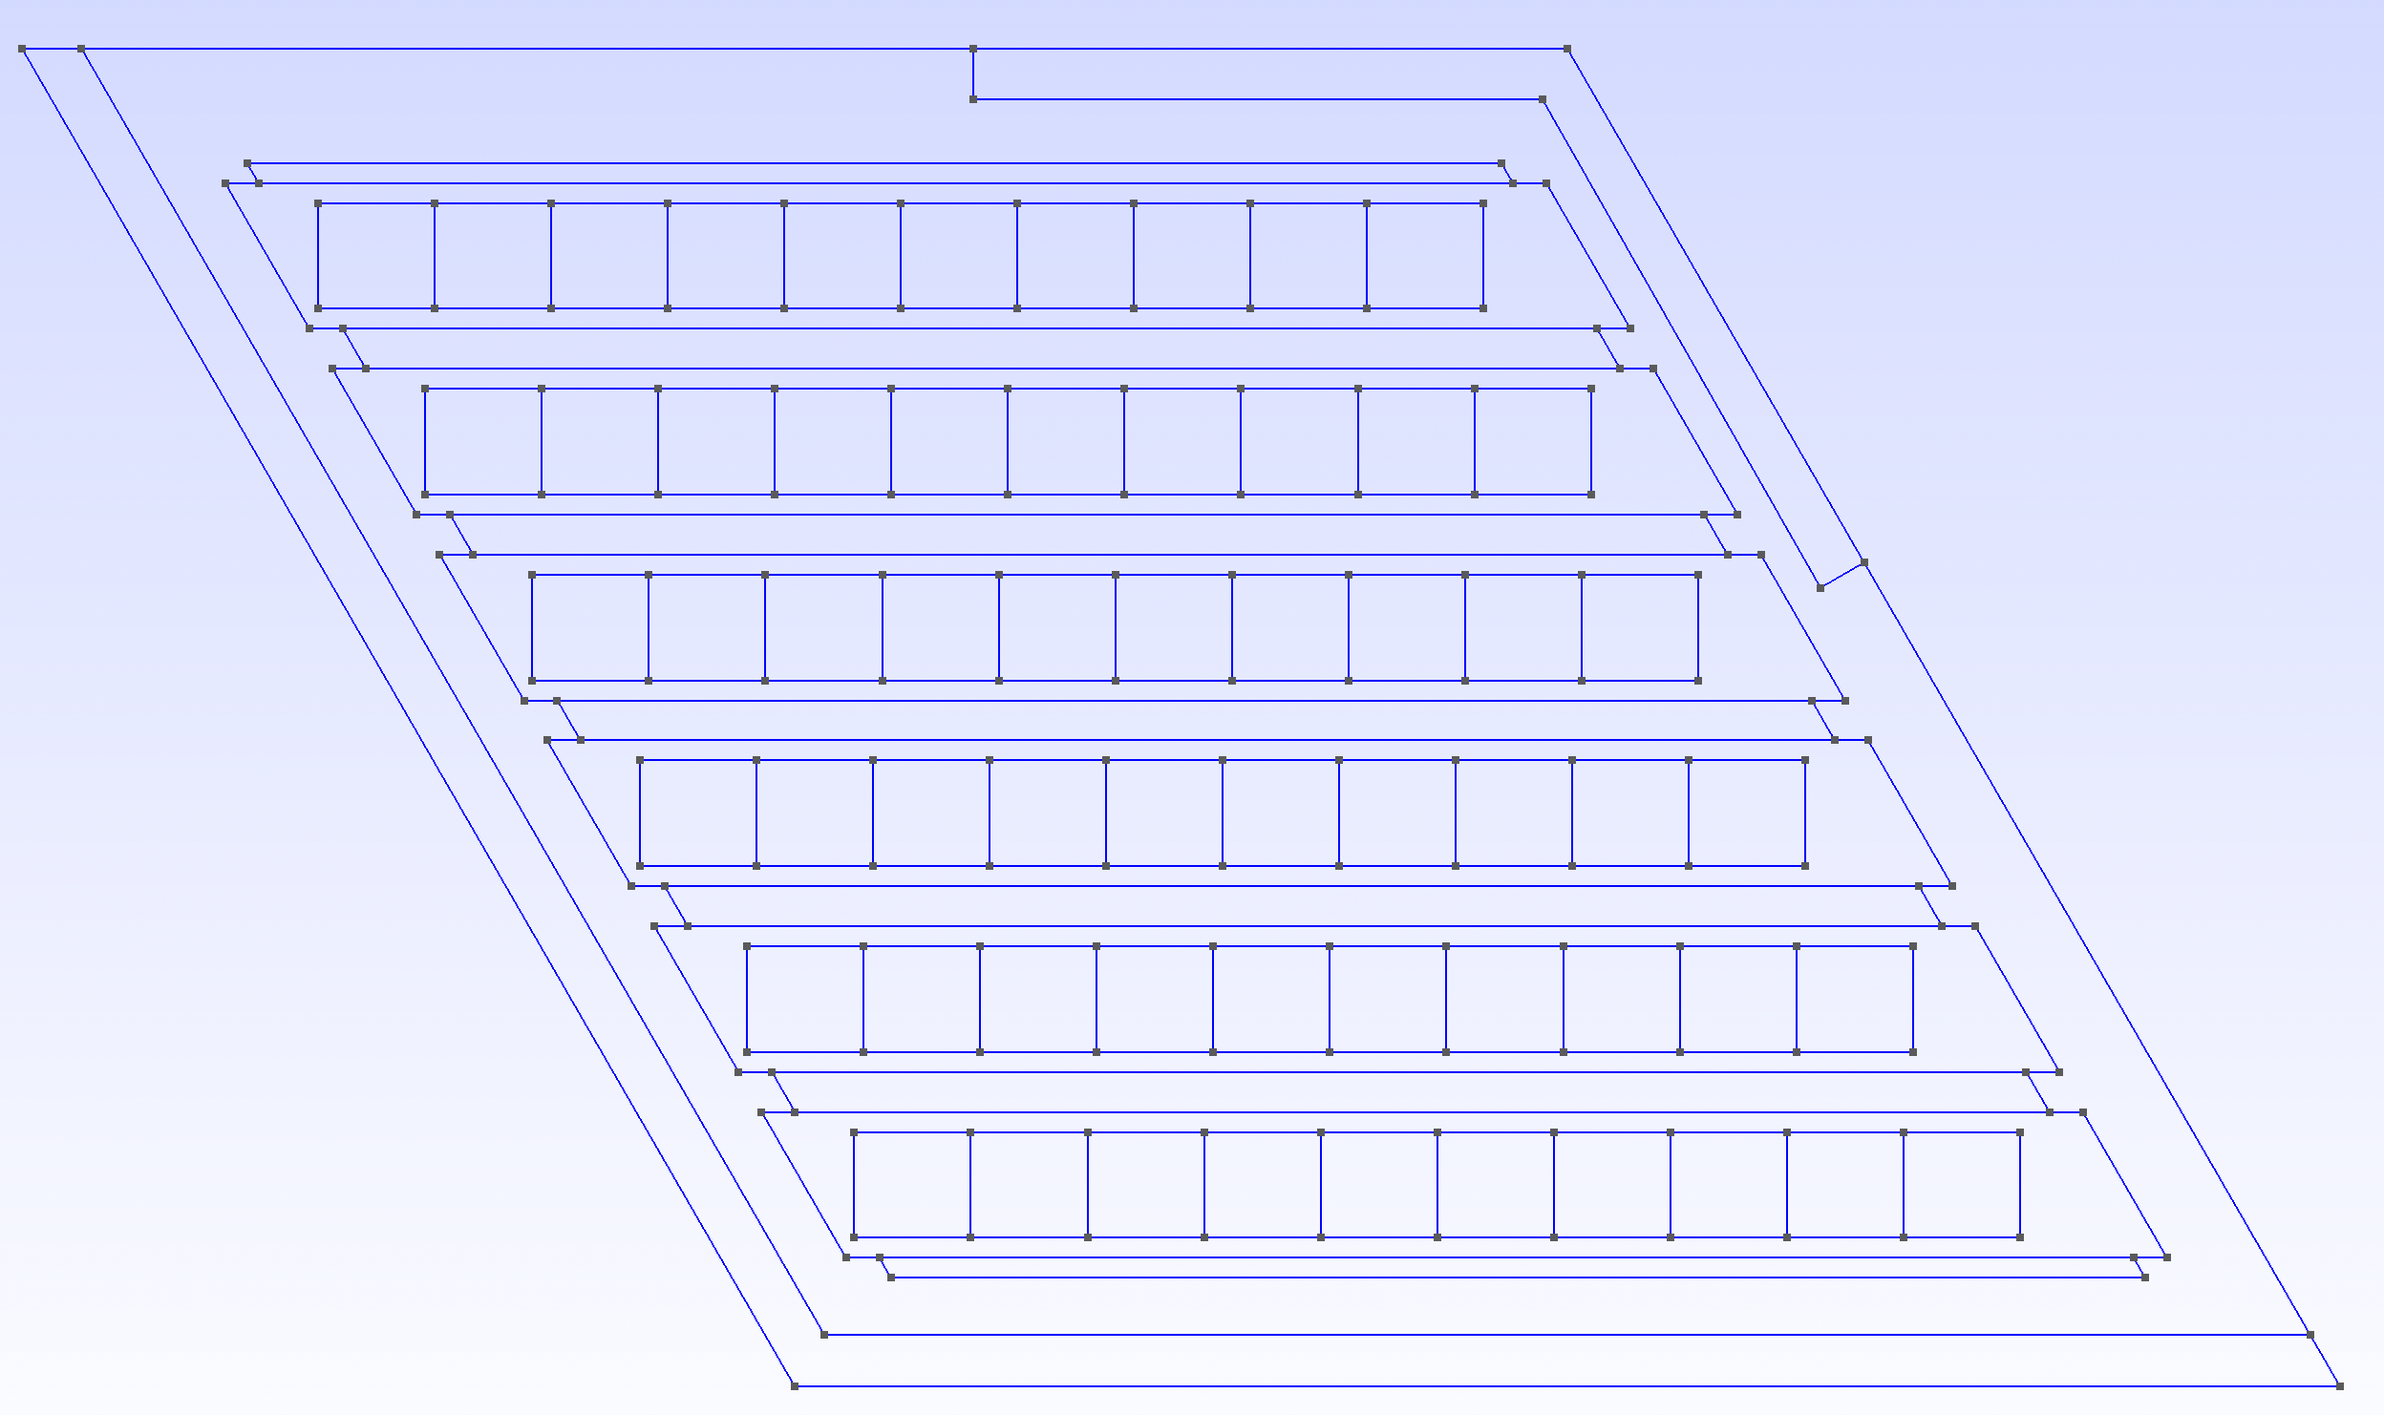
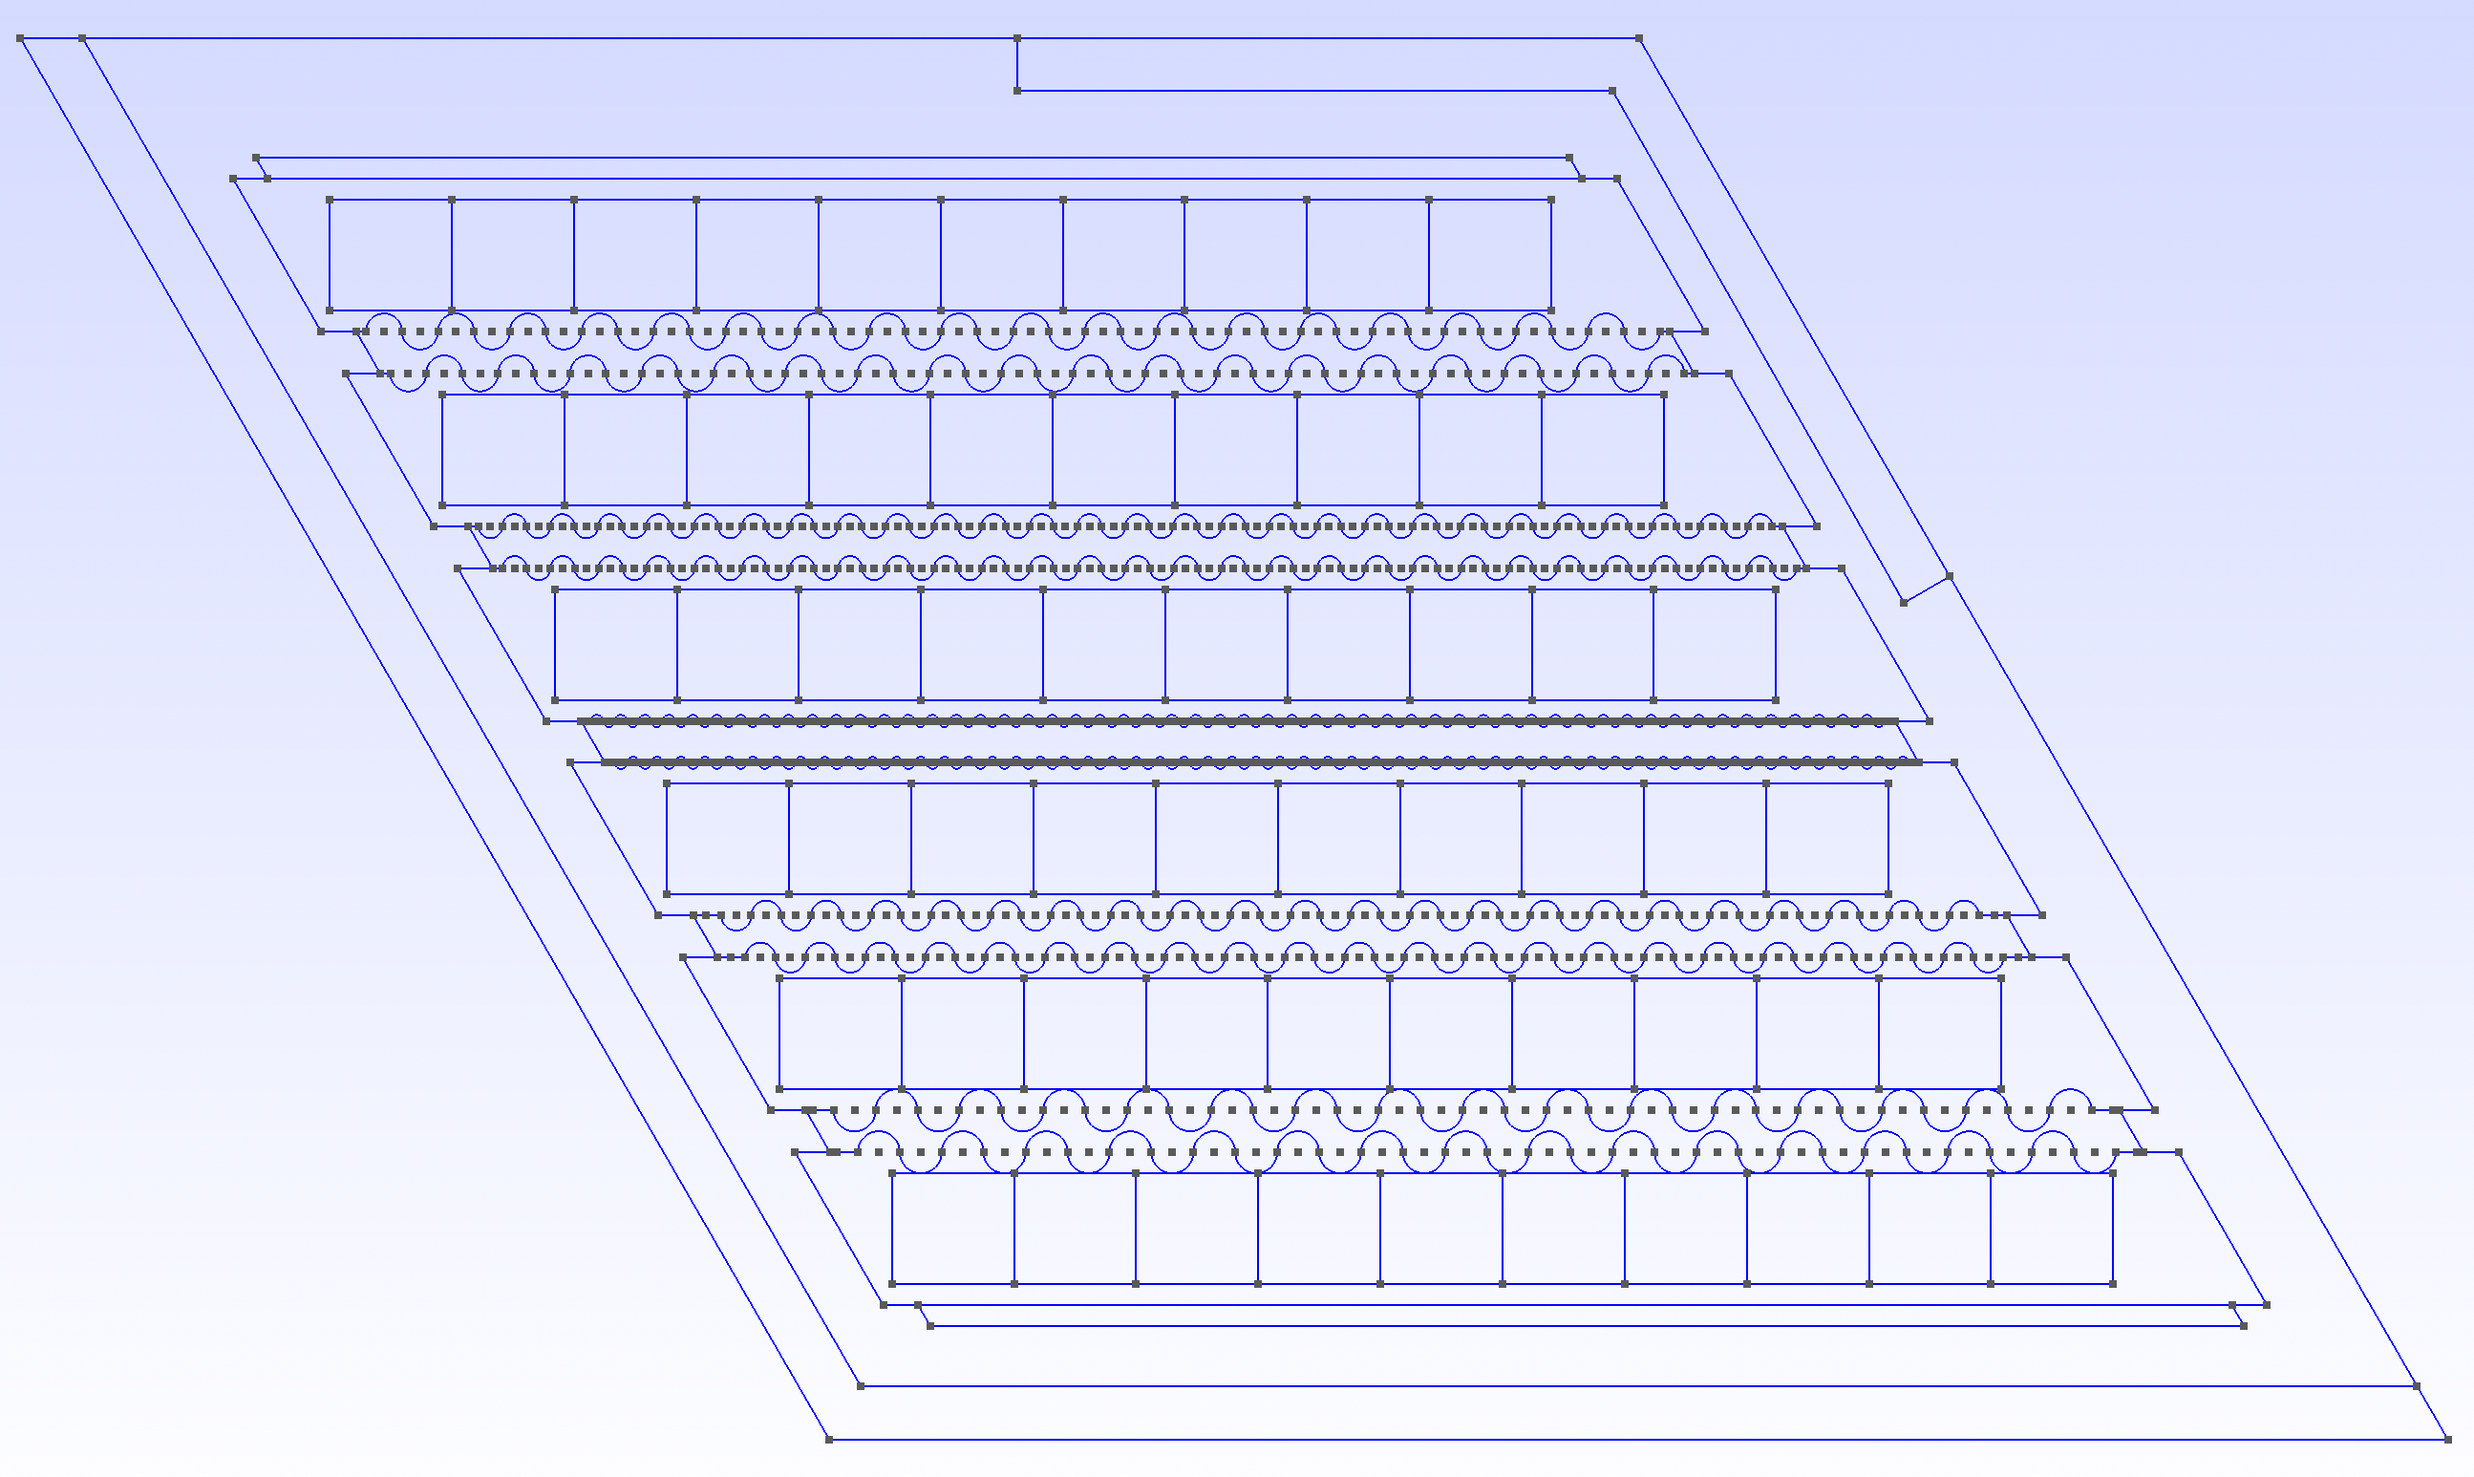
edits

diff --git a/docs/method.tex b/docs/method.tex
@@ -589,13 +589,13 @@ for group constant generation.
 I compared the key neutronics parameters for the continuous OpenMC and multigroup 
 Moltres simulations (that utilized OpenMC generated group constants) for both the 
 \gls{AHTR} plank and one-third assembly to ensure that the spatial and energy 
-homogenization preserve accuracy.
+homogenizations preserve accuracy.
 Section \ref{sec:ahtr_model_verification} reports the verification study's results.
 
 \subsubsection{AHTR Moltres Mesh Generation}
 I wrote Python scripts for the \gls{AHTR} plank and one-third assembly models 
 that accept the coolant channel shape input parameters 
-($r_{top}, r_{bot}, r_1, r_2, r_3, r_4, r_5$) and generate a geometry script file 
+($r_{top}, r_{bot}, r_1, r_2, r_3, r_4, r_5$) to generate a geometry script file 
 (\texttt{.geo}) based on the spatial homogenizations outlined in the previous 
 subsection.
 The \gls{AHTR} geometry mesh is then generated from the geometry script file using 
@@ -604,7 +604,6 @@ I used Gmsh's \textit{refine by splitting} functionality to refine the mesh.
 Figures \ref{fig:ahtr-plank-geo} and \ref{fig:ahtr-assem-geo} show Gmsh rendered 
 geometry file examples generated by the geometry scripts for the \gls{AHTR} plank 
 and one-third assembly.
-% TODO: update assem figure with varying coolant channel
 \begin{figure}[htbp]
     \centering
     \begin{subfigure}{\textwidth}
